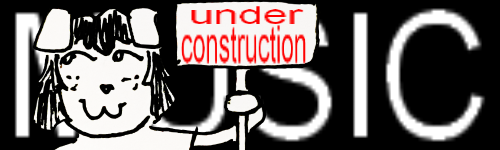
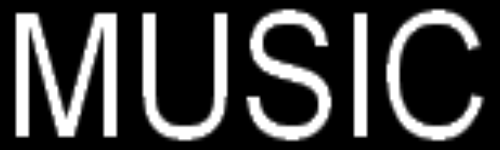
added my_music.html

diff --git a/my_music.html b/my_music.html
@@ -3,7 +3,7 @@
 <head>
     <meta charset="UTF-8">
     <meta name="viewport" content="width=device-width, initial-scale=1.0">
-    <title>About</title>
+    <title>Music</title>
 	<link rel="icon" type="image/x-icon" href="images/favicon.ico">
     <style>
         body {
@@ -18,7 +18,7 @@
             overflow-x: hidden;
         }
         header {
-            background: linear-gradient(to right, #0000FF, #000000);
+            background: linear-gradient(to right, #00FF00, #000000);
             color: white;
             text-align: center;
             padding: 0px;
@@ -50,7 +50,7 @@
 			overflow-y: hidden;
         }
         .content {
-            background-image: url('img/back.png');
+            background-image: url('images/back.png');
             padding: 20px;
             flex: 1;
             margin: 0 20%;
@@ -59,20 +59,24 @@
         }
         .post {
             margin-bottom: 20px;
-            border: 2px solid #0000FF;
+            border: 2px solid #00FF00;
             padding: 20px;
             background-color: #000;
         }
         .post h2 {
-            color: #0000FF;
+            color: #00FF00;
             margin-top: 0;
 			font-size: 16px;
         }
         .post p {
             color: #ddd;
         }
+		.image-left {
+            float: left;
+            margin-right: 15px;
+        }
         footer {
-            background: linear-gradient(to right, #000000, #0000FF);
+            background: linear-gradient(to right, #000000, #00FF00);
             color: white;
             text-align: center;
             padding: 10px 0;
@@ -80,14 +84,14 @@
         img {
             max-width: 100%;
             height: auto;
-            border: 3px solid #0000FF;
+            border: 3px solid #00FF00;
             margin-bottom: 10px;
         }
 		nav {
             display: flex;
             justify-content: center;
             background-color: #000;
-			border: 3px solid #0000FF;
+			border: 3px solid #00FF00;
             padding: 10px;
         }
         nav a {
@@ -123,29 +127,40 @@
 		
 		
         <section class="content">
-			<center><img src="images/aboutbanner.png"></center>
+			<center><img src="images/musicbanner.png"></center>
 			<p></p>
 			
 			
 			<article class="post">
                 
-				<h2>5.26.2025 ► ABOUT ME? WHAT ABOUT YOU?</h2>
+				<h2>5.27.2025 ► HELLO, NEBRASKA, HOW HAVE YOU BEEN?</h2>
 				<p>
-				hi my name is angel, welcome to my website!
+				<img src="images/nebraskatape.png" class="image-left" width="200">
+				<strong>HELLO, NEBRASKA ► Recorded April/May 2025
 				<br>
-				i'm 20 and i make stuff, i made this site as a catch-all for whatever
-				 projects i'm working on. here's some stuff i like:
-				<ul>
-				  <li>Music ► Sonic Youth, SWANS, TR/ST, Car Seat Headrest, Suishou no Fune, Polvo, Black Country New Road, Bjork, Bruce Springsteen, Cocteau Twins, Far Apart, Have a Nice Life, The Hotelier, JPEGMAFIA, Julie, King Woman, Kitty Craft, Ladytron, Les Rallizes Denudes, and like a freakin' ton more</li>
-				  <br>
-				  <li>Movies/TV ► Everything Everywhere All At Once, I Saw The TV Glow, Common Side Effects, Mr Robot, Daria, MTV's Downtown, Gummo, Perfect Days, Johnny Mnemonic, Tank Girl, Ghost World</li>
-				  <br>
-				  <li>Books ► A Tale For The Time Being by Ruth Ozeki (MUST READ!!), Cyberia by Douglas Rushkoff, The Teachings of Don Juan by Carlos Castaneda (read the whole series with Don Juan too, i'm currently on book 4), The Way of Zen by Alan Watts, The Book of Five Rings by Miyamoto Musashi, Permanent Record by Edward Snowden</li>
-				  <br>
-				  <li>Hobbies ► songwriting, singing, bass and guitar, drawing, painting, skateboarding, web stuff (yes hello), game design, 3d animation</li>
-				</ul> 
+				<br>
+				TRACKLIST ► A1. Hello, Nebraska / A2. Vague As Always / A3. How To Hold Onto Everything / A4. Dog Dance / B1. When The Sky Turned green
+				/ B2. Love Hurts / B3. When / B4. In Heaven / B5. Bye, Me
+				</strong>
+				<br>
+				<br>
+				<i>Hello, Nebraska</i> is a tape i recorded in a few days. the tracks (most will likely never see the light of day)
+				were recorded directly from a board and mic setup with little post processing.
+				overdubs were done for minimal lead and bass parts on most tracks. it was really fun to
+				experiment with a stripped down sound, some of the songs would make great acoustic pieces.
+				<br>
+				<br>
+				thematically the tape is mostly me singing about my life (boring) with loose themes of a tornado. if i remember correctly
+				we had a "tornado scare" the day i started working on it.
+				<br>
+				<br>
+				there isn't particularly much else to say about this project except that out of everything
+				i've made in the last five (?) years of making music this one's probably my favorite.
+				<br>
+				<br>
+				<br>
 				</p>
-				<img src="images/selfie.png">
+				
             </article>			      
 			
 			
